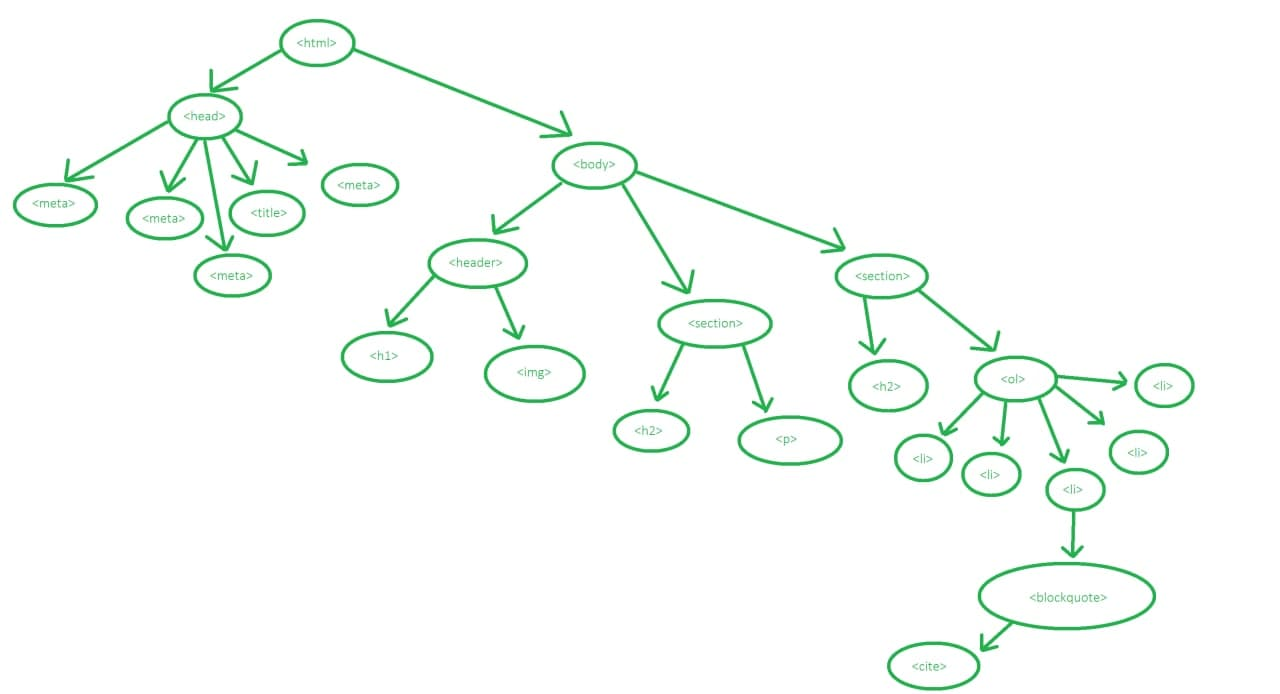
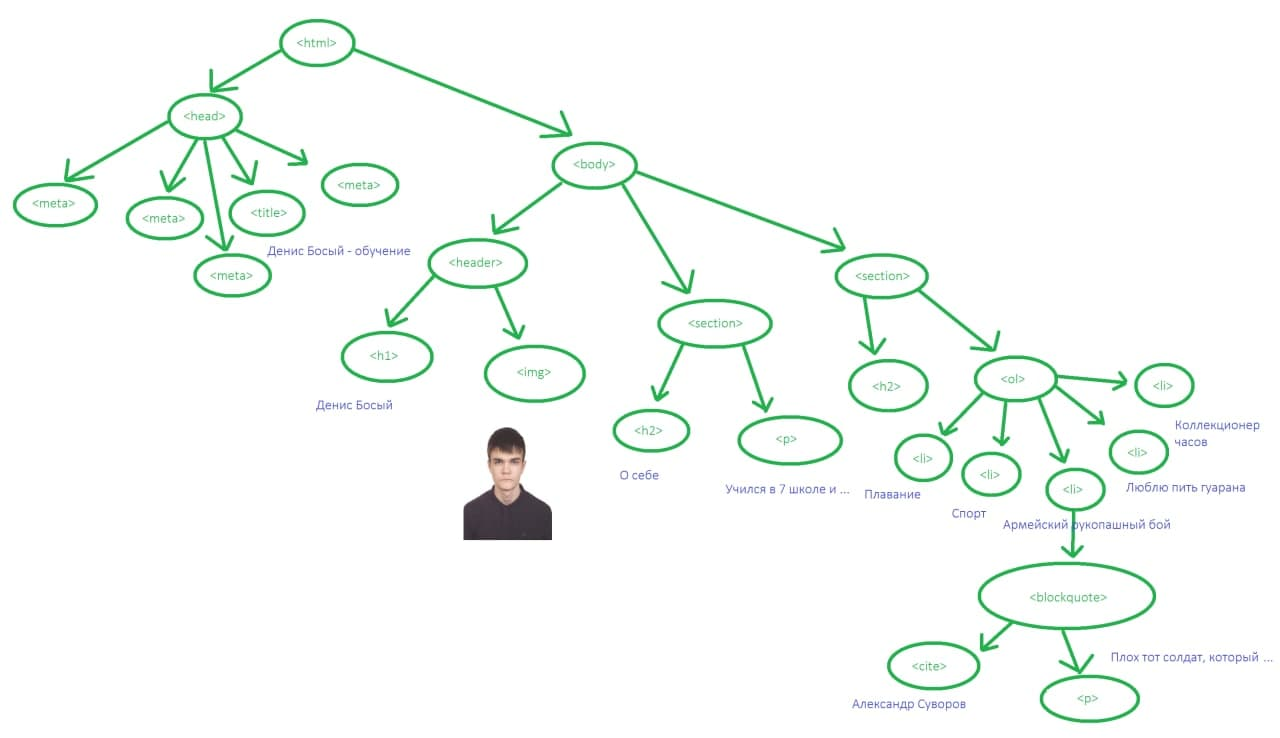
update dom_tree image, add 'hobbies' content on page

Changed region(s): [[0.0, 0.0303, 1.0, 0.9986]]

diff --git a/lw4/page/index.html b/lw4/page/index.html
@@ -20,22 +20,21 @@
       </p>
     </section>
     <section>
-      <h2>Японская методика "5 почему?"</h2>
+      <h2>Мои увлечения и хобби</h2>
       <ol>
-        <li>Почему ПС? - Хочу стать инженером</li>
-        <li>Зачем инженером? - Чтобы поступить в Яндекс</li>
+        <li>Плавание</li>
+        <li>Спорт</li>
         <li>
-          Почему именно в Яндекс? - Потому что там крутые спецы.
+          Армейский рукопашный бой
           <blockquote>
             <p>Плох тот солдат, который не мечтает быть генералом</p>
             <cite>Александр Суворов</cite>
           </blockquote>
         </li>
         <li>
-          Зачем мне крутые спецы? - Я сам стану крутым спецом и буду
-          реализовывать свои идеи
+          Люблю пить гуарана
         </li>
-        <li>Зачем? - Чтобы стать счастливым</li>
+        <li>Коллекционер часов</li>
       </ol>
     </section>
   </body>

diff --git a/lw3/task3_3/inc/password.inc.php b/lw3/task3_3/inc/password.inc.php
@@ -45,7 +45,7 @@
     }
   }
   
-  function subtractRepeatedSymbolsRule(string $password, int $passwordStrength, int $passwordLength) {
+  function subtractRepeatedSymbolsRule(string $password, int &$passwordStrength, int $passwordLength) {
     $ch = '';
     $repeatedSymbolsCount = 0;
     for($i = 0; $i < $passwordLength; $i++) {
